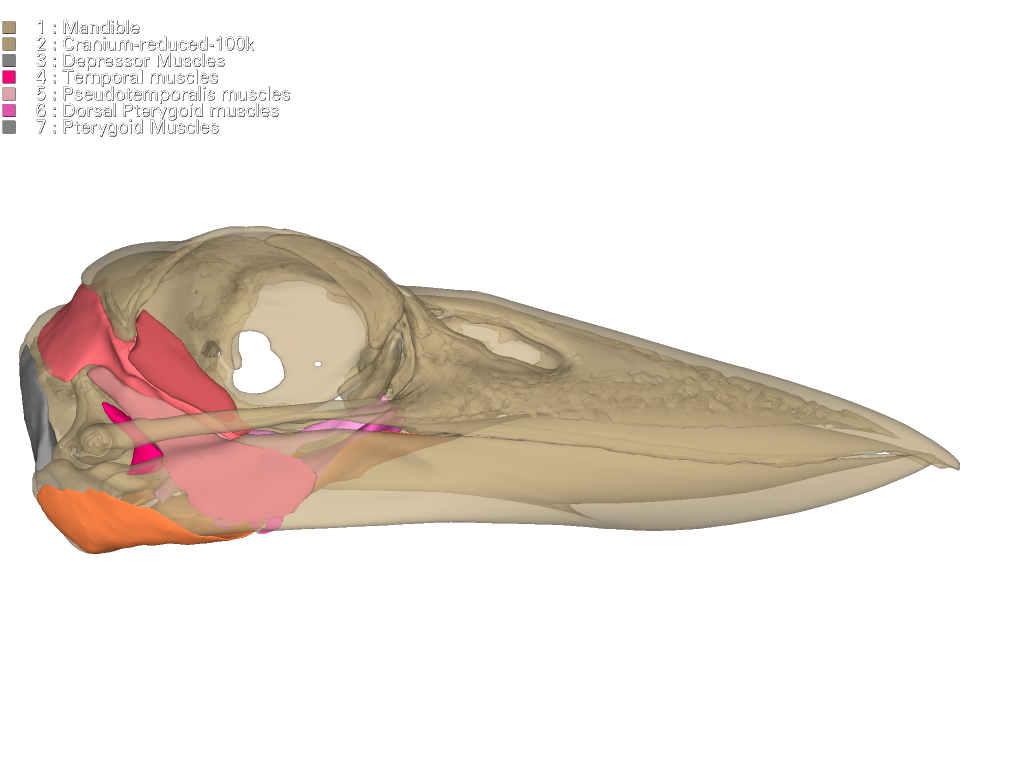
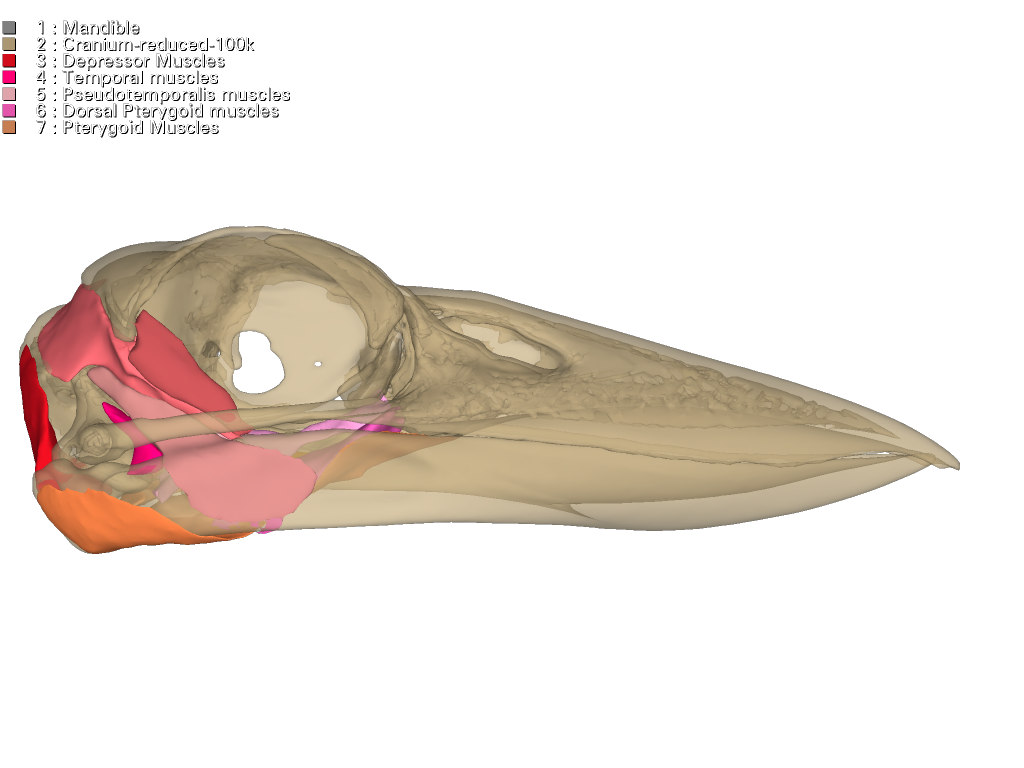
Use the python api for the OBJ  mesh loading test
Old data load interface from scripting commands is deprecated

Changed region(s): [[0.0, 0.0312, 0.2812, 0.1875], [0.0, 0.4375, 0.0625, 0.6562], [0.0, 0.1562, 0.0312, 0.1875]]

diff --git a/kookaburra/runtest.py b/kookaburra/runtest.py
@@ -5,14 +5,82 @@ import os
 #This test covers multiple OBJ model loading, grouping and labelling
 # along with transparent surface rendering
 
-#Using automated image output with the provided init.script to load/setup
-lv = lavavu.Viewer(quality=2, port=0, initscript=True)
+#Organise the data by muscle group and provide group names and colours for elements
+dataset = {}
+dataset[""] = [("Mandible.obj", [170,151,114]),
+               ("Cranium-reduced-100k.obj", [170,151,114])]
 
-lv.open()
+dataset["Depressor Muscles"] = [("1. Depressor Mandibulae.obj", [0.82,0.05,0.11])]
+
+dataset["Temporal muscles"] = [("2. Adductor Mandibulae Externus profundus.obj", [0.93,0.40,0.43]),
+    ("3. Adductor Mandibulae Externus superficialis.obj", [0.76,0.49,0.48]),
+    ("4. Unnamed Temporal muscle.obj", [0.70,0.29,0.30]),
+    ("5. Adductor Mandibulae Posterior.obj", [1.00,0.00,0.46])]
+
+dataset["Pseudotemporalis muscles"] = [("6. Pseudotemporalis superficialis.obj", [0.91,0.43,0.46,1.0]),
+    ("7. Pseudotemporalis profundus.obj", [0.87,0.64,0.67,1.0])]
+
+dataset["Dorsal Pterygoid muscles"] = [("8. Pterygoideus Dorsalis Medialis anterior.obj", [0.89,0.56,0.76,1.0]),
+    ("9. Pterygoideus Dorsalis Medialis posterior.obj", [1.00,0.00,0.10,1.0]),
+    ("10. Pterygoideus Dorsalis Lateralis.obj", [0.89,0.33,0.67,1.0])]
+
+dataset["Pterygoid Muscles"] = [("11. Pterygoideus Ventralis Medialis.obj", [1.00,0.59,0.00,1.0]),
+    ("12. Pterygoideus Ventralis lateralis.obj", [0.91,0.47,0.25,1.0]), 
+    ("13. Pterygoideus Ventralis lateralis Part2.obj", [0.86,0.58,0.36,1.0]),
+    ("14. Pterygoideus Ventralis lateralis Part3.obj", [0.78,0.49,0.32,1.0])]
+
+#Using automated image output with the provided init.script to load/setup
+lv = lavavu.Viewer(quality=2, port=0)
+
+#With this setting the OBJ loader will ignore the normals 
+#in the OBJ file and recalculate them, it's usually not necessary but
+#the downloaded model only has facet normals on the vertices.
+#We get nicer lighting by getting LavaVu to calculate the correct vertex normals.
+lv["trisplit"] = 1
+
+#Flip the Y and Z axes on surface load
+lv["swapyz"] = True
 
 #Enable transparent output
 lv["pngalpha"] = True
 lv["diffuse"] = 0.8 #Increase lighting level
+
+#Start with the Viewer object
+obj = lv
+for group in dataset:
+    #Has a group name? create a vis object for the group
+    if len(group):
+        print("Creating:" + group)
+        #Following files will be loaded into this object
+        # creating a composite of the loaded surfaces
+        obj = lv.triangles(group)
+
+    #Load the list of files
+    for el in dataset[group]:
+        fn = el[0]
+        colour = el[1]
+        obj.file(fn, colours=[colour])
+        if len(group): obj["opacity"] = 1.0
+
+
+lv.translation(0, 0, -120)
+#lv.rotation(0, 180, 0)
+lv.rotation(0, 1, 0, 0)
+
+lv.border(0)
+lv.axis('off')
+lv.list('objects')
+
+print(lv.objects)
+
+mandible = lv.objects["Mandible"]
+cranium = lv.objects["Cranium-reduced-100k"]
+
+mandible["opacity"] = 0.5
+cranium["opacity"] = 0.5
+
+lv.reload() #Some settings require data to be reloaded
+#lv.display(resolution=[900,400])
 
 #lv.display()
 #lv.image("output")
